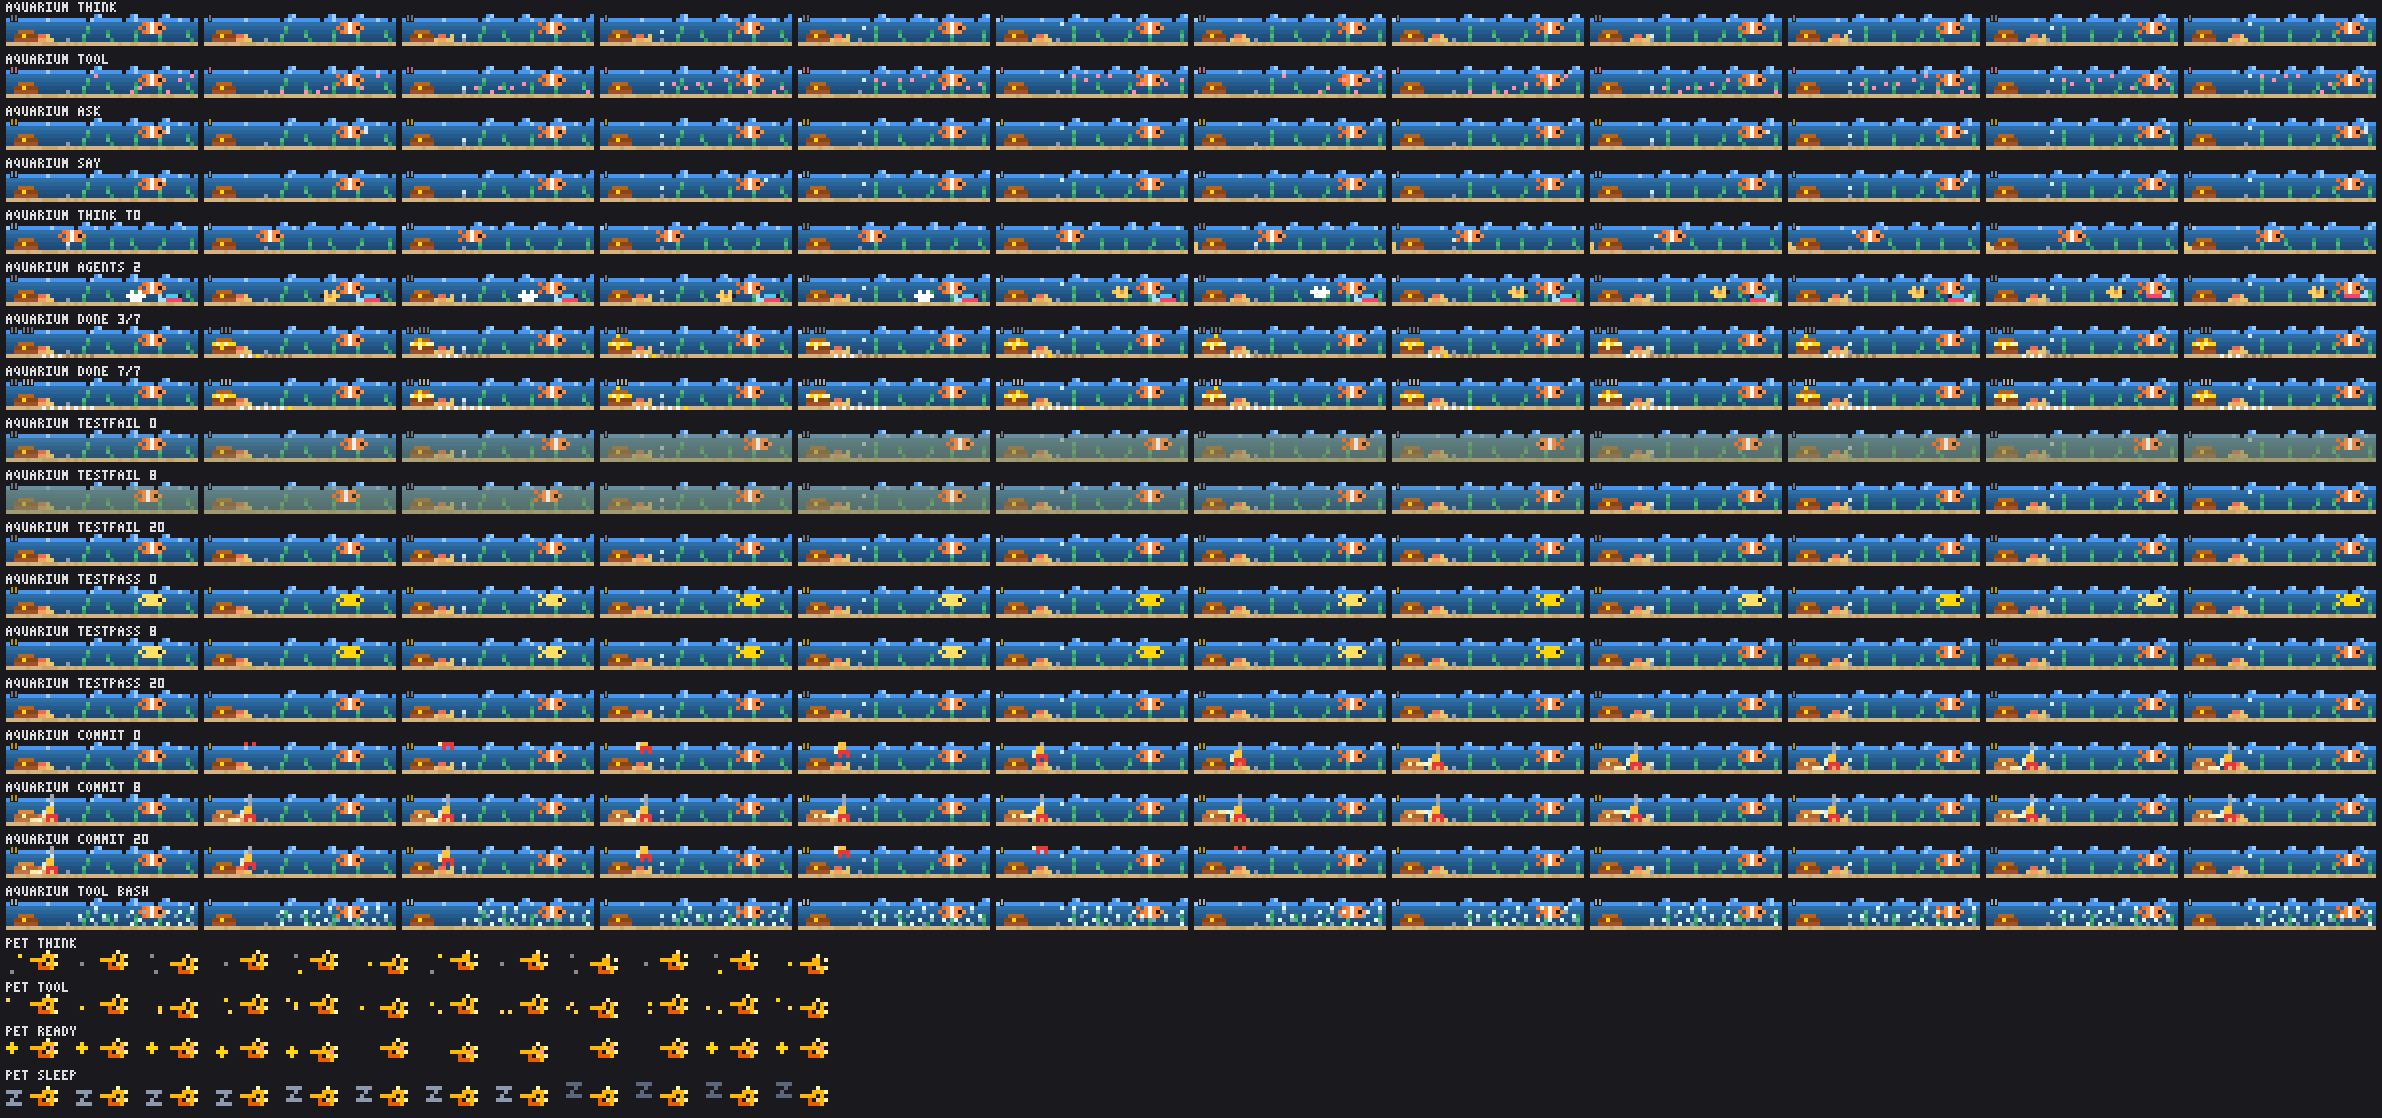
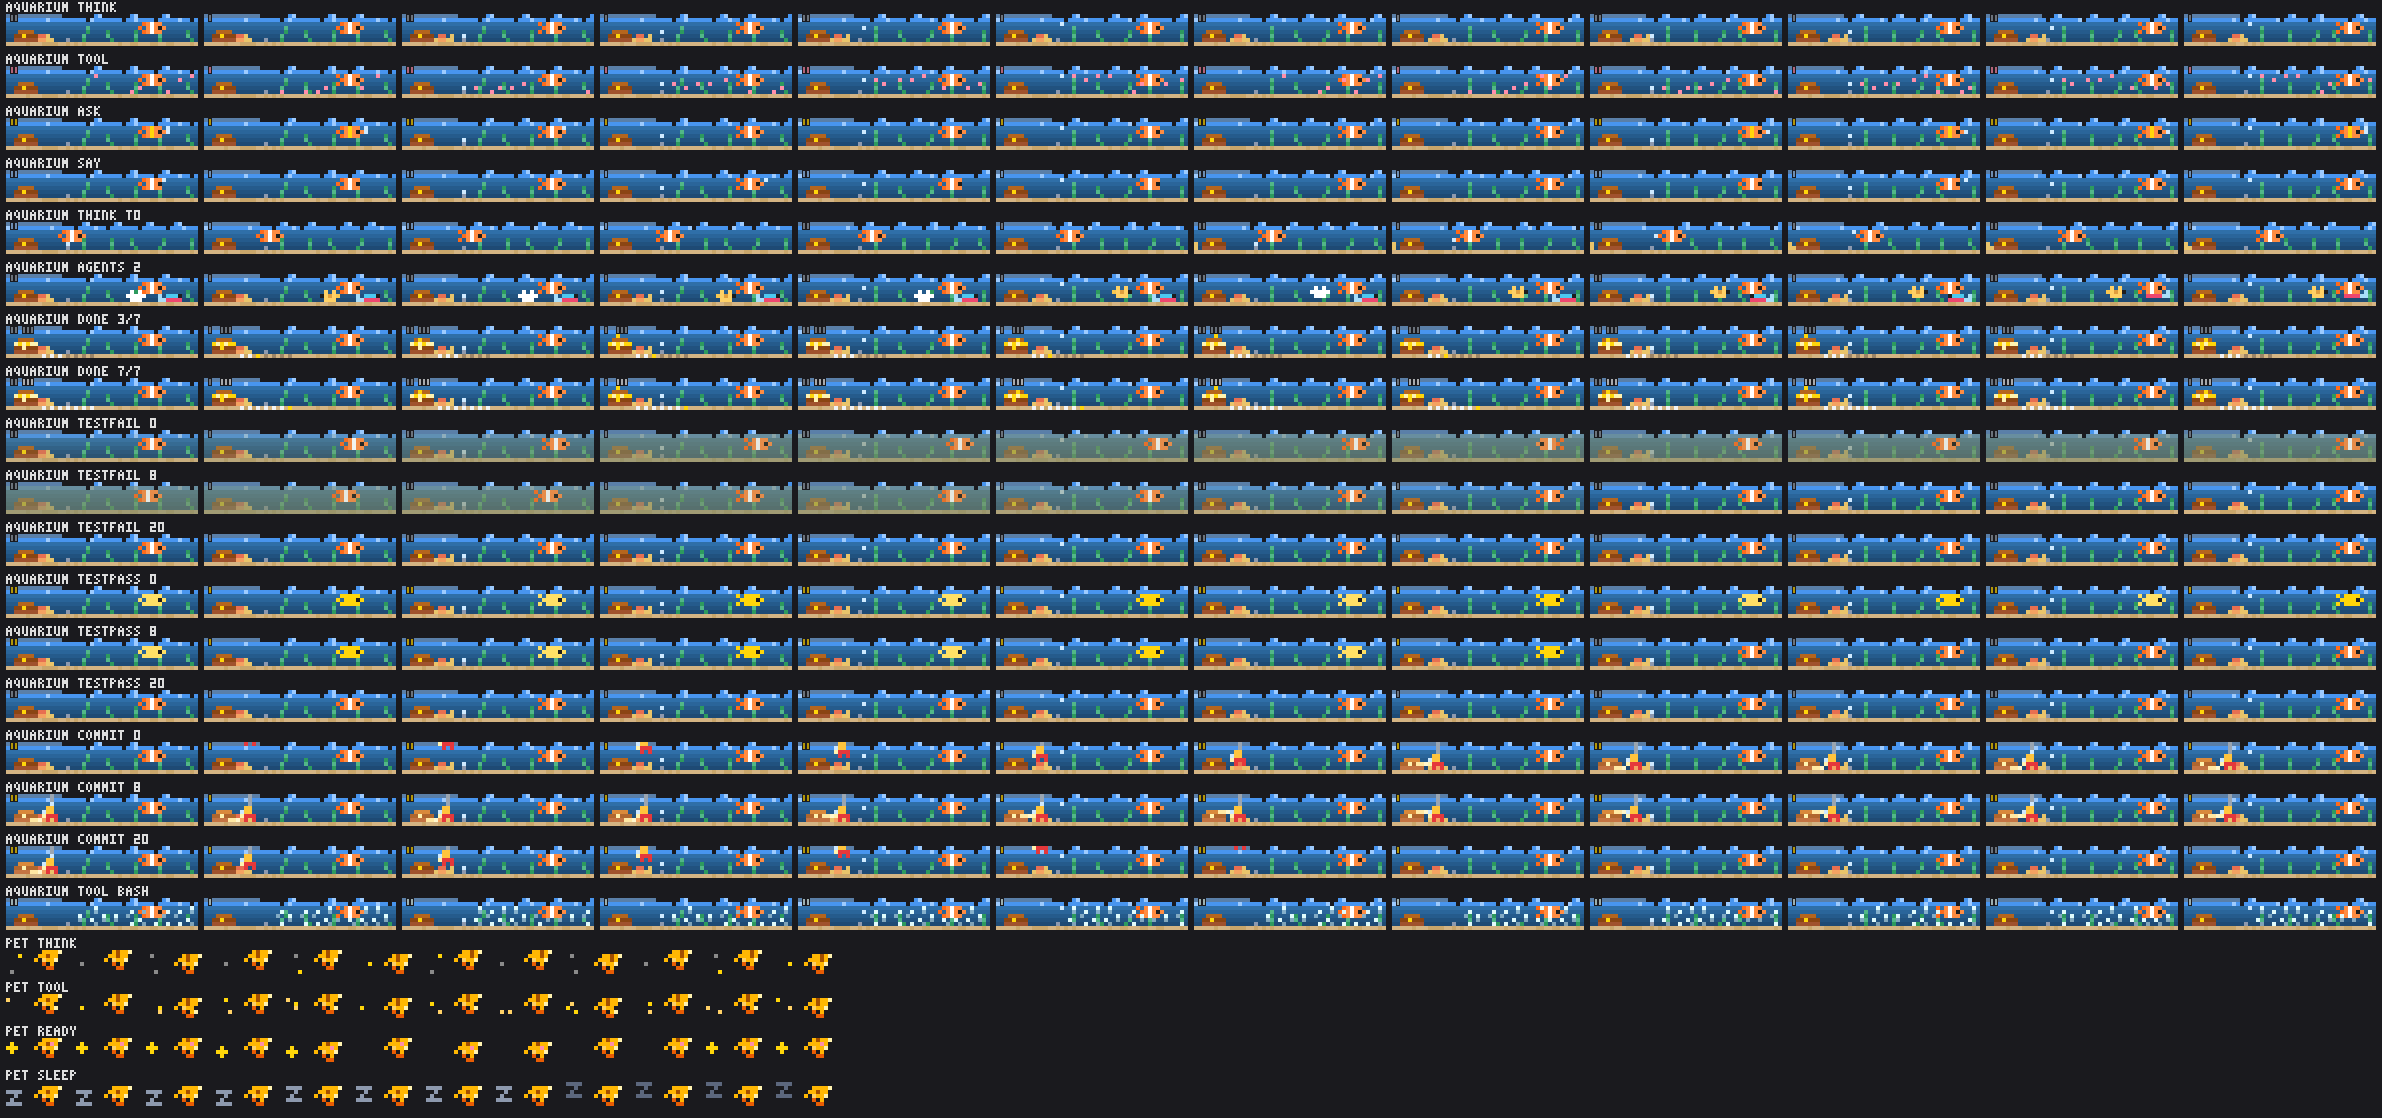
showtime: aquarium — the seahorse pet redrawn as an S (review fix): a long head tilted with a 2-px snout angled down, a pale coronet, a belly bulging out the front and a dark tail hooking forward and up, an amber eye so the head stays one shape; the chest stays open when a second task lands while it

Changed region(s): [[0.0, 0.8515, 0.3417, 0.9428], [0.0, 0.9732, 0.3417, 1.0], [0.0, 0.3345, 0.0311, 0.3649]]

diff --git a/showtime/hooks/themes/aquarium.ts b/showtime/hooks/themes/aquarium.ts
@@ -31,7 +31,7 @@ const [TURN_FRAMES, GREET_FRAMES, OPEN_FRAMES, CLOUD_FRAMES, SETTLE_FRAMES, PASS
 const [DIVER_TOP, DIVER_FLOOR, UP_AT] = [-4, 3, 20]
 /** A startled fish's offset from its path, a cell a frame: out ahead and back past. */
 const DART = [0, 1, 2, 3, 3, 2, 1, 0, -1, -1, 0]
-const [SURFACE, GLINT, MURK, BUBBLE] = ['#4895ef', '#9dcbff', '#7d8a6a', '#cfeaff']
+const [SURFACE, GLINT, MURK, BUBBLE, RIM] = ['#4895ef', '#9dcbff', '#7d8a6a', '#cfeaff', '#5a7fa8']
 const WATER = ['#2f6fa8', '#2a659a', '#255b8c', '#21527f', '#1e4a74']
 const SAND = ['#d4b483', '#c9a66b']
 const KELP = ['#2d9a5e', '#52b788']
@@ -45,8 +45,8 @@ const TOOL_SIGN: Record<ToolKind, string> = {
   bash: '$', edit: '✎', read: '¶', search: '⌕', agent: 'ᗣ', web: '◎', other: '✦' }
 
 /** The clownfish, facing right: a forked tail, orange with a white band, its eye and nose at the front. */
-const [HOST, HOST_FLICK] = [['T.OWOO.', '.TOWOEO', 'T.OWOO.'], ['.TOWOO.', 'T.OWOEO', '.TOWOO.']]
-const HOST_INK: Ink = { O: '#ff8c42', W: WHITE, T: '#ff6b1a', E: '#1d1d1d' }
+const [HOST, HOST_FLICK] = [['T.OWOO.', '.TOWOEM', 'T.OWOO.'], ['.TOWOO.', 'T.OWOEM', '.TOWOO.']]
+const HOST_INK: Ink = { O: '#ff8c42', W: WHITE, T: '#ff6b1a', E: '#1d1d1d', M: '#ff8c42' }
 /** The agents' fish, facing right, bottom-aligned on the floor row: a tetra, a puffer, an angelfish, a betta. */
 const FISH: readonly Fish[] = [
   { art: ['T.BBBE', 'TTRRRR'], ink: { B: '#4cc9f0', R: '#ef476f', T: '#a9def9', E: '#1d1d1d' } },
@@ -101,9 +101,10 @@ function swimmer(t: number, s: Signals, at: (tt: number) => number, right: (tt: 
 }
 
 /** The surface along px 1, glints drifting right; troughs a cell wide drifting left (each a cell every other
- * frame, neighbours on alternate frames), a crest over the cells behind each, none left of `zone`. */
+ * frame, neighbours on alternate frames), a crest over the cells behind each, gone under the rim left of `zone`. */
 function surface(cv: Canvas, t: number, zone: number): void {
   for (let x = 0; x < cv.w; x++) plot(cv, x, SURFACE_Y, mod(x - (t >> 2), 11) === 0 ? GLINT : SURFACE)
+  for (let x = 0; x < zone; x++) plot(cv, x, 0, RIM)
   const n = 2 * Math.ceil((Math.ceil(cv.w / TROUGH_PITCH) + 1) / 2)
   for (let k = 0; k < n; k++) {
     const x = mod(k * TROUGH_PITCH + Math.floor(noise(k + 5) * 3) - ((t + (k & 1)) >> 1), n * TROUGH_PITCH)
@@ -140,9 +141,9 @@ function column(cv: Canvas, t: number, x: number, y0: number, period: number, in
 /** The chest: shut, or open as a task lands (the lid lifts a pixel, gold glinting), four coins floating up a
  * pixel a frame and glinting on the surface; lit while the diver's torch is on it. */
 function chest(cv: Canvas, t: number, s: Signals, lit: boolean): void {
-  const ink = lit ? CHEST_LIT : CHEST_INK
   const age = s.doneAge
-  const isOpen = s.done > 0 && age < OPEN_FRAMES && age >= 1 && age < OPEN_FRAMES - 1
+  const isOpen = s.done > 0 && age < OPEN_FRAMES - 1   // from the frame it lands, so a second one keeps it open
+  const ink = lit ? CHEST_LIT : CHEST_INK
   if (!isOpen) return draw(cv, CHEST_X, FLOOR_Y - 2, CHEST_SHUT, ink)
   draw(cv, CHEST_X, FLOOR_Y - 3, CHEST_OPEN, mod(t, 2) ? ink : { ...ink, g: GOLD, G: '#fff3b0' })
   for (let k = 0; k < 4; k++) {
@@ -248,7 +249,11 @@ export function aquariumScene(t: number, w: number, s: Signals): Grid {
   const hy = SURFACE_Y + 1
   const flick = s.act !== 'wait' && mod(t, isTool ? 2 : 4) < (isTool ? 1 : 2)
   const art = flick ? HOST_FLICK : HOST
-  draw(cv, host.x, hy, host.right ? art : flip(art), dim(isPass ? goldOf(HOST_INK, t) : HOST_INK))
+  // Asking, its band glows gold half of each twelve frames; saying, its mouth opens every other two.
+  let ink = isPass ? goldOf(HOST_INK, t) : HOST_INK
+  if (s.act === 'ask' && s.actAge >= TURN_FRAMES && mod(t, 12) < 6) ink = { ...ink, W: GOLD }
+  if (s.act === 'say' && s.actAge >= TURN_FRAMES && mod(t, 4) < 2) ink = { ...ink, M: WATER[1]! }
+  draw(cv, host.x, hy, host.right ? art : flip(art), dim(ink))
   mouthBubbles(cv, t, s, tt => [hostRight(tt) ? hostAt(tt) + 7 : hostAt(tt) - 1, hy + 1])
 
   const g = cells(cv)
@@ -275,14 +280,15 @@ function sign(s: Signals, t: number, age: number): { text: string; c: string } {
   return { text: frame(['z', 'Z'], t >> 2) + dot, c: DIM }
 }
 
-/** A seahorse facing left: a pale coronet spike, a long tube snout, a back fin, its dark tail curled under. */
+/** A seahorse facing left, an S in 5 px: a long horse head, a pale coronet, a 2-px snout angled down, a pale belly
+ * bulging out the front, a back fin, and its dark tail hooking forward and up under it. */
 export const PET: PetArt = {
-  body: ['......c.....', '.....hhhc...', '..ssshhh....', '....t.bBf...', '....tttB....'],
-  step: ['......c.....', '.....hhhc...', '..ssshhh....', '....t.bB....', '....tttBf...'],
+  body: ['.....hhhhc..', '....shhhh...', '...s.bBBf...', '.....t.B....', '......tt....'],
+  step: ['.....hhhhc..', '....shhhh...', '...s.bBB....', '.....t.Bf...', '......tt....'],
   colors: { h: '#ffb703', s: '#ffb703', c: '#fff3b0', b: '#ffd166', B: '#ffb703', f: '#fff3b0', t: '#e85d04' },
   eyes: [6],
-  eyeRow: 1,
-  eye: '#1d1d1d',
+  eyeRow: 0,
+  eye: '#a34f00',
   lid: '#ffb703',
   blush: '#ff8fab',
   spark: GOLD,
